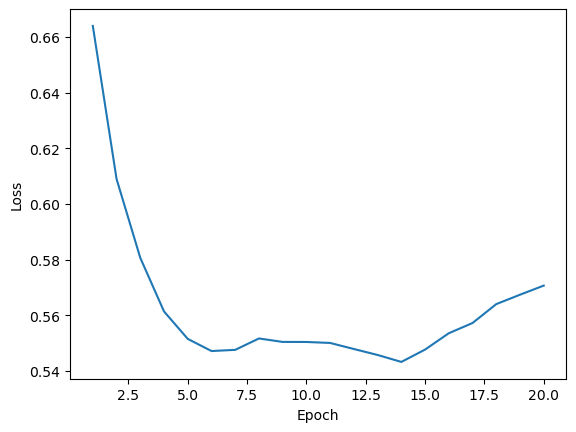
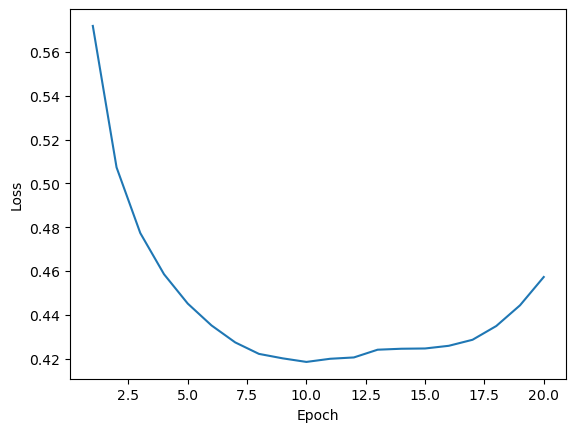
Q2.4 fix padding

diff --git a/Homework2/hw2_cnn_skeleton_code/hw2-q2.py b/Homework2/hw2_cnn_skeleton_code/hw2-q2.py
@@ -27,17 +27,17 @@ class CNN(nn.Module):
         super(CNN, self).__init__()
 
         # x -> 784 entries -> 28x28 image (x 1 channel)
-        self.conv1 = nn.Conv2d(1, 8, kernel_size=5, stride=1)
-        # z1 -> 24x24 image (x 8 channels)
+        self.conv1 = nn.Conv2d(1, 8, kernel_size=5, stride=1, padding=2)
+        # z1 -> 28x28 image (x 8 channels)
         self.conv1_act = nn.ReLU()
         self.conv1_pool = nn.MaxPool2d(kernel_size=2, stride=2)
-        # h1 -> 12x12 image (x 8 channels)
-        self.conv2 = nn.Conv2d(8, 16, kernel_size=3, stride=1, padding_mode="zeros")
-        # z2 -> 10x10 image (x 16 channels)
+        # h1 -> 14x14 image (x 8 channels)
+        self.conv2 = nn.Conv2d(8, 16, kernel_size=3, stride=1, padding=0)
+        # z2 -> 12x12 image (x 16 channels)
         self.conv2_act = nn.ReLU()
         self.conv2_pool = nn.MaxPool2d(kernel_size=2, stride=2)
-        # h2 -> 5x5 image (x 16 channels) -> 400 entries 
-        self.fc1 = nn.Linear(400, 600, bias=True)
+        # h2 -> 6x6 image (x 16 channels) -> 576 entries 
+        self.fc1 = nn.Linear(576, 600, bias=True)
         self.fc1_act = nn.ReLU()
         self.fc1_drop = nn.Dropout(dropout_prob) # 0.3 for the question
         
@@ -70,12 +70,10 @@ class CNN(nn.Module):
 
         # x => CONV 1 => RELU 1 => MAX_POOL 1 => h1
         h1 = self.conv1_pool(self.conv1_act(self.conv1(x)))
-
         # h1 => CONV 2 => RELU 2 => MAX_POOL 2 => h2
         h2 = self.conv2_pool(self.conv2_act(self.conv2(h1)))
-        
         # h2 => Flatten => FC => LogSoftmax => output
-        h2_flatten = h2.view(-1, 400)
+        h2_flatten = h2.view(-1, 576)
         h3 = self.fc1_drop(self.fc1_act(self.fc1(h2_flatten)))
         h4 = self.fc2_act(self.fc2(h3))
         output = self.out_act(self.out(h4))
